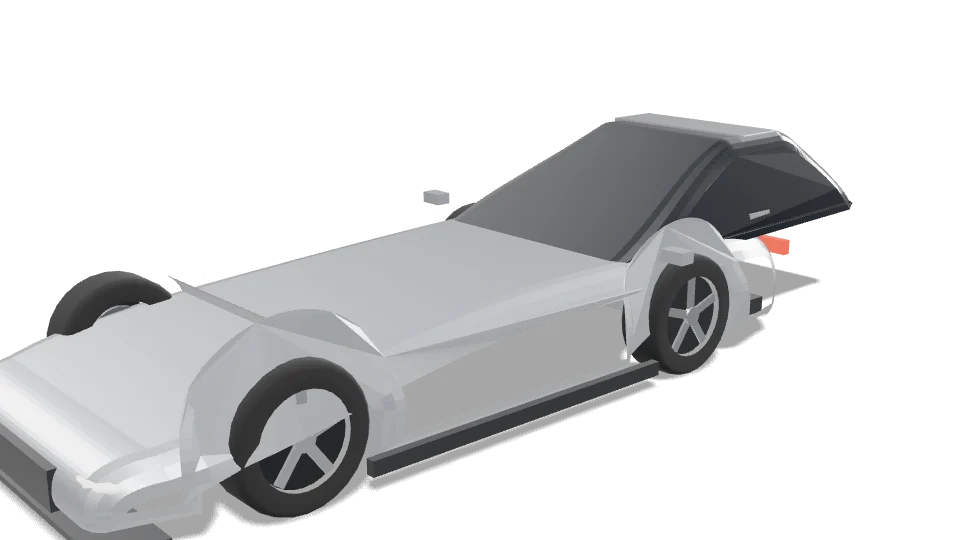
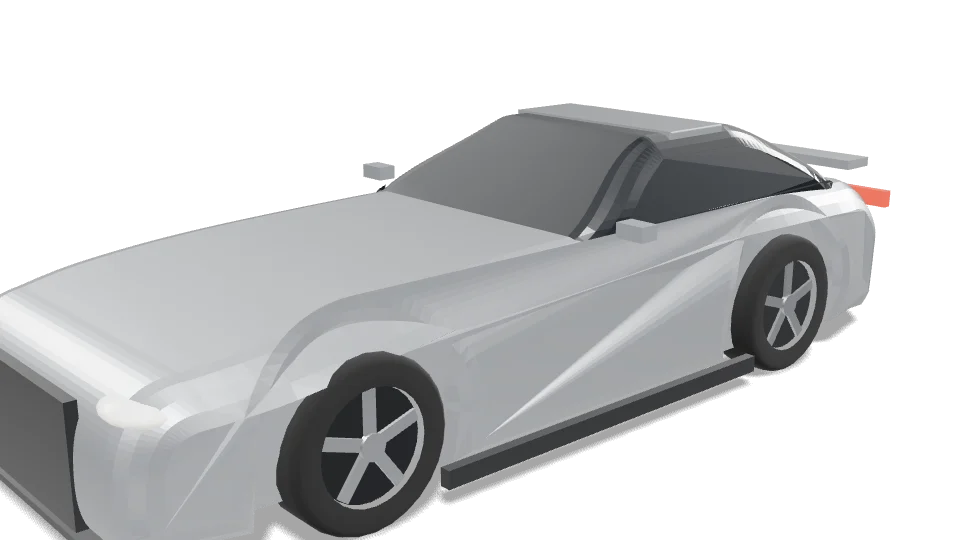
Practice car: own menu tab, fixed AMG GT body, 99 km/h limit with maxed grip/aero/launch

Changed region(s): [[0.0, 0.1778, 0.9375, 1.0], [0.4688, 0.5926, 0.5312, 0.6222]]

diff --git a/src/ui/Menu.ts b/src/ui/Menu.ts
@@ -95,6 +95,9 @@ const el = <K extends keyof HTMLElementTagNameMap>(tag: K, className = '', text 
 export function showMenu(cars: CarDefinition[], tracks: TrackEntry[], initial: MenuSelection): Promise<MenuSelection> {
   return new Promise((resolve) => {
     let carId = initial.carId;
+    /** Car list tab: the F1 teams or the practice car. */
+    const isF1 = (c: CarDefinition) => c.cls === 'formula';
+    let showF1 = !cars.some((c) => c.id === carId && !isF1(c));
     let trackId = initial.trackId;
     let ai = initial.ai;
     let laps = initial.laps;
@@ -117,7 +120,8 @@ export function showMenu(cars: CarDefinition[], tracks: TrackEntry[], initial: M
           <p>F1 2026 · ${cars.filter((c) => c.cls === 'formula').length}개 팀 · 연습용 차량 · ${tracks.length}개 서킷</p>
         </header>
         <section class="menu-step">
-          <h2><b>1</b>팀 선택</h2>
+          <h2><b>1</b>차량 선택</h2>
+          <div class="chip-row car-category" data-group="category"></div>
           <div class="team-grid" data-group="car"></div>
           <div class="team-detail" data-group="spec"></div>
         </section>
@@ -151,6 +155,7 @@ export function showMenu(cars: CarDefinition[], tracks: TrackEntry[], initial: M
       </div>`;
     const q = <T extends HTMLElement>(g: string) => root.querySelector<T>(`[data-group="${g}"]`)!;
     const teamGrid = q<HTMLDivElement>('car');
+    const categoryRow = q<HTMLDivElement>('category');
     const detail = q<HTMLDivElement>('spec');
     const trackGrid = q<HTMLDivElement>('track');
     const aiRow = q<HTMLDivElement>('ai');
@@ -286,7 +291,20 @@ export function showMenu(cars: CarDefinition[], tracks: TrackEntry[], initial: M
     };
 
     const render = () => {
-      teamGrid.replaceChildren(...cars.map(teamCard));
+      const practice = cars.find((c) => !isF1(c));
+      const tabs: [f1: boolean, title: string, sub: string][] = [[true, 'F1 2026', `${cars.filter(isF1).length}개 팀`]];
+      if (practice) tabs.push([false, '연습용', `${practice.spec.top} km/h 제한`]);
+      categoryRow.replaceChildren(
+        ...tabs.map(([f1, title, sub]) =>
+          chip(title, sub, f1 === showF1, () => {
+            showF1 = f1;
+            // Keep the detail panel on a car of the shown list.
+            if (isF1(cars.find((c) => c.id === carId)!) !== f1) carId = cars.find((c) => isF1(c) === f1)!.id;
+            render();
+          }),
+        ),
+      );
+      teamGrid.replaceChildren(...cars.filter((c) => isF1(c) === showF1).map(teamCard));
       renderDetail();
       trackGrid.replaceChildren(...tracks.map(circuitCard));
       controlRow.replaceChildren(

diff --git a/src/vehicle/catalog/ParametricCarVisual.ts b/src/vehicle/catalog/ParametricCarVisual.ts
@@ -34,7 +34,9 @@ const STYLES: Partial<Record<BodyType, BodyStyle>> = {
   roadster: { rideHeight: 0.12, nose: 0.44, belt: 0.62, cowl: 0.42, rake: 1.6, roof: 0, rear: 'open', cabinWidth: 0.82, frontOverhang: 0.5, wing: 'none', race: false },
   mid: { rideHeight: 0.11, nose: 0.36, belt: 0.56, cowl: 0.82, rake: 2.1, roof: 0.24, rear: 'engine', cabinWidth: 0.8, frontOverhang: 0.48, wing: 'ducktail', race: false },
   gt3: { rideHeight: 0.07, nose: 0.36, belt: 0.56, cowl: 0.45, rake: 2.0, roof: 0.28, rear: 'fast', cabinWidth: 0.78, frontOverhang: 0.5, wing: 'gt', race: true },
-  supercar: { rideHeight: 0.09, nose: 0.32, belt: 0.55, cowl: 0.85, rake: 2.3, roof: 0.2, rear: 'engine', cabinWidth: 0.78, frontOverhang: 0.46, wing: 'ducktail', race: false },
+  // Front-engine GT (the AMG GT safety / practice car): long bonnet, cabin set back, fastback; bonnet and
+  // beltline high enough to clear its 0.355 m wheels (lower, the profile crossed the arches and the side panels vanished).
+  supercar: { rideHeight: 0.09, nose: 0.56, belt: 0.7, cowl: 0.5, rake: 2.0, roof: 0.22, rear: 'fast', cabinWidth: 0.78, frontOverhang: 0.46, wing: 'ducktail', race: false },
   lmp: { rideHeight: 0.06, nose: 0.36, belt: 0.58, cowl: 0.62, rake: 2.0, roof: 0.2, rear: 'engine', cabinWidth: 0.5, frontOverhang: 0.48, wing: 'lmp', race: true },
 };
 
@@ -158,7 +160,8 @@ export class ParametricCarVisual extends PrimitiveCarVisual {
     for (const side of [-1, 1]) {
       const head = this.part(this.track(new THREE.SphereGeometry(0.15, 14, 8)), light, side * W * 0.33, noseV - 0.08, -(front - 0.15), false);
       head.scale.set(1.15, 0.3, 0.8);
-      this.box(0.15, 0.07, 0.1, style.race ? carbon : paint, side * (W / 2 + 0.03), beltV + 0.08, -(cowlU - 0.15));
+      // Mirror on the door top: the tumblehome pulls the body in to ~87 % of W at the beltline.
+      this.box(0.15, 0.07, 0.1, style.race ? carbon : paint, side * (W * 0.435 + 0.06), beltV + 0.05, -(cowlU - 0.15));
     }
     // Tail lamps: a full-width bar on race cars and modern supercars, two clusters on road cars.
     if (style.race || spec.cls === 'hyper') this.part(this.track(new THREE.BoxGeometry(W * 0.8, 0.05, 0.05)), tail, 0, deckV - 0.14, -(rear + 0.02), false);

diff --git a/src/vehicle/catalog/specs.ts b/src/vehicle/catalog/specs.ts
@@ -37,6 +37,8 @@ export interface CarSpec {
   realTop?: number;
   /** Team character (F1): multipliers around the shared 2026 baseline (top speed then follows from power and drag). */
   traits?: CarTraits;
+  /** Practice car: tyre μ, aero load (½ρClA) and launch force (g) in place of the body template's. */
+  tune?: { mu: number; downforce: number; launchG: number };
 }
 
 export interface CarTraits {
@@ -122,8 +124,21 @@ export const SAFETY_CAR: CarSpec = rows('sports', [
   ['safety-car', 'Safety Car', 'GT', 'supercar', 537, 1520, 325, 'RWD', [4.6, 2.0, 1.25, 2.63], 'v8', 0xb9bec4, 0x00a19b],
 ])[0];
 
-/** Practice car: the safety car's body (no light bar), limited to 100 km/h. Its rivals are practice cars too. */
-const PRACTICE_CAR: CarSpec = { ...SAFETY_CAR, id: 'practice-amg', brand: '연습용 AMG GT', model: '(세이프티카 기반)', top: 100, limited: true, realTop: SAFETY_CAR.top };
+/**
+ * Practice car: the safety car's body (no light bar), limited to 99 km/h, with everything else maxed:
+ * AWD, high-grip tyres, heavy aero and launch force (acceleration, handling and braking bars at 100). Its rivals are practice cars too.
+ */
+const PRACTICE_CAR: CarSpec = {
+  ...SAFETY_CAR,
+  id: 'practice-amg',
+  brand: '연습용 AMG GT',
+  model: '(세이프티카 기반)',
+  top: 99,
+  limited: true,
+  realTop: SAFETY_CAR.top,
+  drive: 'AWD',
+  tune: { mu: 2, downforce: 6.5, launchG: 2 },
+};
 
 /** Selectable cars: the ten F1 teams, then the practice car. */
 export const CAR_SPECS: CarSpec[] = [...FORMULA, PRACTICE_CAR];

diff --git a/src/vehicle/catalog/build.ts b/src/vehicle/catalog/build.ts
@@ -87,6 +87,10 @@ export function buildPhysics(spec: CarSpec): VehicleConfig {
   }
   // Track-focused road cars carry more aero (Senna, Valkyrie, GT3 RS...).
   if (spec.body === 'supercar' && spec.kg < 1400) t.downforce = 0.7;
+  if (spec.tune) {
+    t.mu = spec.tune.mu;
+    t.downforce = spec.tune.downforce;
+  }
   const tr = spec.traits;
   if (tr) {
     t.downforce *= tr.downforce;
@@ -155,7 +159,7 @@ export function buildPhysics(spec: CarSpec): VehicleConfig {
     enginePower: power,
     mgukPower: mguk,
     activeAero: formula ? STRAIGHT_MODE : undefined,
-    engineForce: mass * G * 1.4,
+    engineForce: mass * G * (spec.tune?.launchG ?? 1.4),
     reverseForce: mass * 5,
     brakeForce: mass * G * 4,
     // Single-seaters run strong forward bias; road cars a little less.

diff --git a/README.md b/README.md
@@ -72,7 +72,7 @@ npx tsx scripts/fetch-osm.ts [circuit]   # OpenStreetMap 주변 환경 데이터
 - 타이어 폭은 2026 규격(앞 280 mm, 뒤 375 mm)에 맞췄습니다.
 - 출력, 무게, 최고속도, 크기는 공개 제원 기준 근삿값입니다(`src/vehicle/catalog/specs.ts`). 지금은 모든 팀이 같은 성능이고 색만 다릅니다.
 - 레이스 상대는 실제 그리드처럼 팀메이트 1대 + 나머지 팀 각 2대입니다.
-- **연습용 차량**(`practice-amg`, 팀 목록 맨 끝): 세이프티카(Mercedes-AMG GT) 차체에 최고속도 100 km/h 제한입니다. AI 상대를 고르면 상대도 같은 연습용 차량입니다. 예: `?car=practice-amg&track=monza&ai=0`
+- **연습용 차량**(`practice-amg`, 차량 선택의 `연습용` 탭): 세이프티카(Mercedes-AMG GT) 차체에 최고속도 99 km/h 제한입니다. 사륜구동·고그립 타이어·강한 다운포스·발진력으로 가속·핸들링·제동 수치는 최대입니다. AI 상대를 고르면 상대도 같은 연습용 차량입니다. 예: `?car=practice-amg&track=monza&ai=0`
 - 예전의 일반차·GT·하이퍼카 등급은 뺐습니다. 코드로 만든 차체(`ParametricCarVisual`, `FormulaCarVisual`)는 GLB를 못 불러올 때의 대체용과 테스트용으로 남아 있습니다.
 
 ### 서킷
